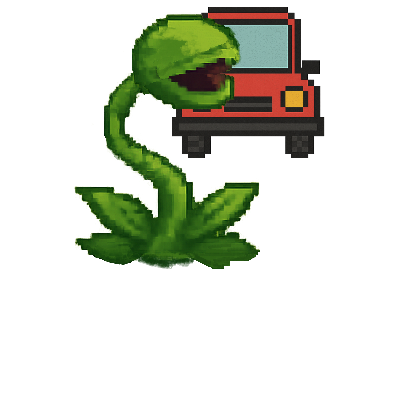
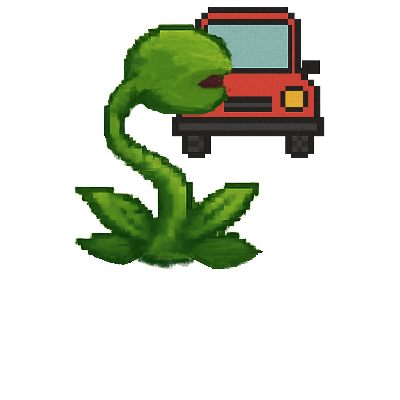
asd

Changed region(s): [[0.3, 0.03, 0.6, 0.3], [0.57, 0.63, 0.63, 0.69]]

diff --git a/DxLib_TGS2025/Src/Object/car.cpp b/DxLib_TGS2025/Src/Object/car.cpp
@@ -822,7 +822,7 @@ void CarWarnUpdate(const Goal*goal,const GameOver*gameover,const InGame*ingame)
 	 if (car.ivy_flag == true)
 	 {
 		 car.ivy_count++;
-		 if (car.ivy_count > 20&&car.ivy_count % 3 == 0 && car.ivy_num < 11)
+		 if (car.ivy_count > 20&&car.ivy_count % 4 == 0 && car.ivy_num < 11)
 		 {
 			 car.ivy_num++;
 		 }
@@ -853,10 +853,10 @@ void CarWarnUpdate(const Goal*goal,const GameOver*gameover,const InGame*ingame)
 		 case eDown:
 			 if (car.ivy_num < 18)
 			 {
-				 DrawRotaGraphF(carx - 18, cary + 55, 0.4, 0.0, car.ivy_anim_down[0], TRUE);
+				 DrawRotaGraphF(carx - 18, cary + 50, 0.4, 0.0, car.ivy_anim_down[0], TRUE);
 			 }
 			 DrawRotaGraphF(carx - 18, cary + 50, 1.7, 0.0, gameover.circle, TRUE);
-			 DrawRotaGraphF(carx - 18, cary + 55, 0.4, 0.0, car.ivy_anim_down[car.ivy_num], TRUE);
+			 DrawRotaGraphF(carx - 18, cary + 50, 0.4, 0.0, car.ivy_anim_down[car.ivy_num], TRUE);
 			 
 			 break;
 		 case eRight:
